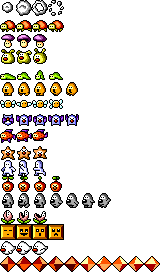
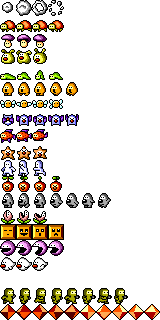
More enemies

diff --git a/src/enemytypes.js b/src/enemytypes.js
@@ -18,7 +18,8 @@ export function getEnemyType(index) {
 		Caterpillar, SandEgg, Fly, 
 		Bat, Fish, Star, 
 		Snowman, Apple, Rock,
-		Plant, Block
+		Plant, Block, ManEater,
+		Spook
 	];
     
     return TYPES[clamp(index, 0, TYPES.length-1) | 0];
@@ -1349,4 +1350,163 @@ export class Block extends Enemy {
 		}
 	}
 
+}
+
+
+export class ManEater extends Enemy {
+	
+	
+	constructor(x, y) {
+		
+		super(x, y, 14, 5, 3);
+
+		this.center.y = 2;
+		this.collisionBox = new Vector2(4, 10);
+        // this.hitbox = new Vector2(8, 8);
+		this.renderOffset.y = 0;
+        
+        this.friction.x = 0.025;
+		this.friction.y = 0.1;
+
+		this.mass = 0.5;
+
+        this.dir = 1 - 2 * (((x / 16) | 0) % 2);
+
+		this.bounceX = -1;
+		this.bounceY = -1;
+	}
+
+
+	init(x, y) {
+
+		const BASE_GRAVITY = 4.0;
+		const BASE_SPEED = 0.5;
+
+		this.dir = 1 - 2 * (((x / 16) | 0) % 2);
+
+		this.target.x = this.dir * BASE_SPEED;
+		this.speed.x = this.target.x;
+
+		this.target.y = BASE_GRAVITY;
+	}
+
+
+	updateAI(ev) {
+		
+        // ...
+	}
+	
+	
+	animate(ev) {
+		
+		const ANIM_SPEED = 6;
+
+		this.spr.animate(this.spr.row, 0, 3, ANIM_SPEED, ev.step);
+	
+		this.flip = this.dir < 0 ? Flip.None : Flip.Horizontal;
+	}
+
+
+    wallCollisionEvent(x, y, h, dir, ev) {
+
+		this.dir = -dir;
+		this.speed.x *= -1;
+		this.target.x = this.speed.x;
+	}
+
+	
+	floorCollisionEvent(x, y, w, ev) {
+
+		const JUMP_HEIGHT = -2.25;
+
+		this.speed.y = JUMP_HEIGHT;
+
+        // Sound effect
+        ev.audio.playSample(ev.assets.samples["jump2"], 0.50);
+	}
+
+
+	enemyCollisionEvent(e) {
+
+		if ((this.speed.x > 0 && e.pos.x > this.pos.x) ||
+			(this.speed.x < 0 && e.pos.x < this.pos.x )) {
+
+			this.target.x *= -1;
+			this.speed.x *= -1;
+
+			this.dir *= -1;
+		}
+	}
+
+}
+
+
+export class Spook extends Enemy {
+	
+	
+	constructor(x, y) {
+		
+		super(x, y, 15, 3, 2);
+		
+		this.friction.x = 0.015;
+		this.friction.y = 0.033;
+		
+		this.collisionBox = new Vector2(6, 6);
+        // this.hitbox = new Vector2(8, 8);
+
+		this.mass = 0.5;
+
+		this.moveDir = new Vector2(0, 0);
+
+		this.waveTimer = 0;
+
+		this.disableCollisions = true;
+	}
+	
+	
+	init(x, y) {
+
+		this.waveTimer = 0;
+	}
+	
+	
+	updateAI(ev) {
+
+		const MOVE_SPEED = 0.33;
+		const WAVE_SPEED = 0.05;
+		const AMPLITUDE = 1.5;
+
+		this.waveTimer = (this.waveTimer + WAVE_SPEED * ev.step) % (Math.PI*2);
+
+		this.target.x = this.moveDir.x * MOVE_SPEED;
+		this.target.y = (this.moveDir.y + AMPLITUDE * Math.sin(this.waveTimer)) 
+						* MOVE_SPEED;
+		
+	}
+	
+	
+	animate(ev) {
+		
+		const EPS = 0.25;
+
+		let frame = 1;
+		if (this.speed.y < -EPS)
+			frame = 0;
+		else if (this.speed.y > EPS)
+			frame = 2;
+
+		this.spr.setFrame(frame, this.spr.row);
+
+		this.flip = this.target.x > 0 ? Flip.Horizontal : Flip.None;
+	}
+
+
+	playerEvent(pl, ev) {
+
+		this.moveDir = (
+			new Vector2(pl.pos.x - this.pos.x, 
+				pl.pos.y - this.pos.y))
+			.normalize(true);
+		
+	}
 }
